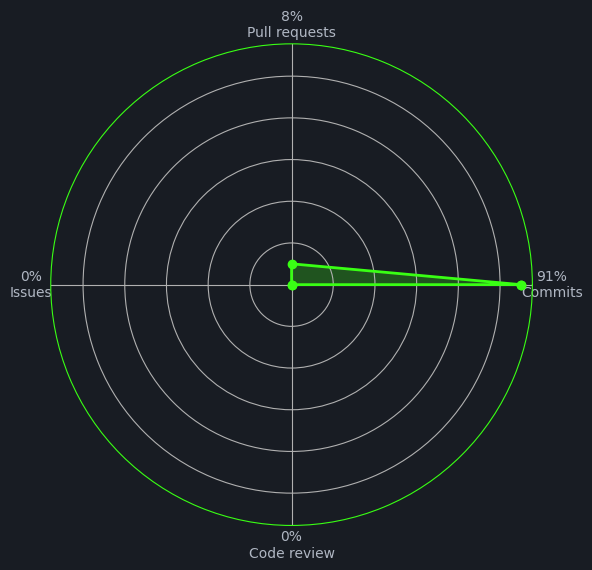
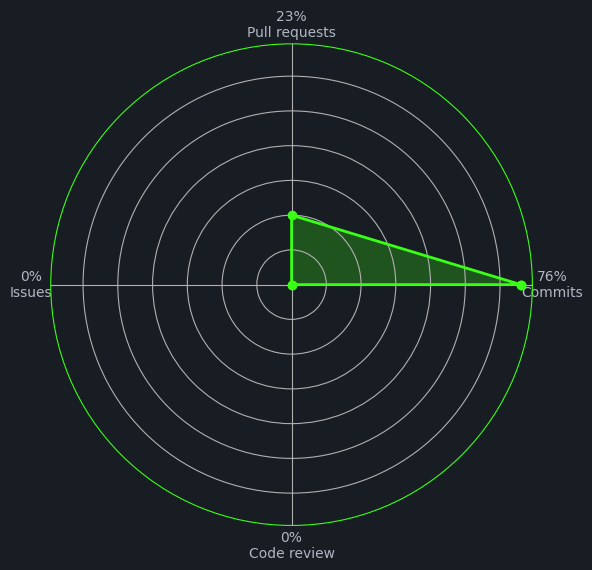
chart generated

diff --git a/generate_radar_chart.py b/generate_radar_chart.py
@@ -1,82 +1,139 @@
 import requests
 import matplotlib.pyplot as plt
 import numpy as np
+import logging
+import sys
+import os
+
+# Set up logging
+logging.basicConfig(
+    level=logging.INFO,
+    format='%(asctime)s - %(levelname)s - %(message)s',
+    handlers=[
+        logging.StreamHandler(sys.stdout)
+    ]
+)
 
 GITHUB_USER = 'vaishcodescape'
+GITHUB_TOKEN = os.getenv('GITHUB_TOKEN')  # Get token from environment variable
 
 # Fetch all public repos
 def get_repos(user):
-    repos = []
-    page = 1
-    while True:
-        url = f'https://api.github.com/users/{user}/repos?per_page=100&page={page}'
-        r = requests.get(url)
-        data = r.json()
-        if not data:
-            break
-        repos.extend([repo['name'] for repo in data])
-        page += 1
-    return repos
+    try:
+        repos = []
+        page = 1
+        headers = {'Authorization': f'token {GITHUB_TOKEN}'} if GITHUB_TOKEN else {}
+        while True:
+            url = f'https://api.github.com/users/{user}/repos?per_page=100&page={page}'
+            r = requests.get(url, headers=headers)
+            r.raise_for_status()  # Raise an exception for bad status codes
+            data = r.json()
+            if not data:
+                break
+            repos.extend([repo['name'] for repo in data])
+            page += 1
+        logging.info(f"Successfully fetched {len(repos)} repositories")
+        return repos
+    except requests.exceptions.RequestException as e:
+        logging.error(f"Error fetching repositories: {e}")
+        raise
 
 # Fetch activity stats
 def get_activity(user, repos):
-    stats = {
-        'Commits': 0,
-        'Pull requests': 0,
-        'Issues': 0,
-        'Code review': 0
-    }
-    headers = {'Accept': 'application/vnd.github.v3+json'}
-    for repo in repos:
-        # Commits
-        commits_url = f'https://api.github.com/repos/{user}/{repo}/commits?author={user}'
-        commits = requests.get(commits_url, headers=headers).json()
-        stats['Commits'] += len(commits) if isinstance(commits, list) else 0
-        # PRs
-        prs_url = f'https://api.github.com/repos/{user}/{repo}/pulls?state=all&per_page=100'
-        prs = requests.get(prs_url, headers=headers).json()
-        stats['Pull requests'] += len([pr for pr in prs if pr.get('user', {}).get('login') == user]) if isinstance(prs, list) else 0
-        # Issues
-        issues_url = f'https://api.github.com/repos/{user}/{repo}/issues?state=all&per_page=100'
-        issues = requests.get(issues_url, headers=headers).json()
-        stats['Issues'] += len([issue for issue in issues if issue.get('user', {}).get('login') == user and 'pull_request' not in issue]) if isinstance(issues, list) else 0
-        # Code reviews (approximated by review comments on PRs)
-        reviews_url = f'https://api.github.com/repos/{user}/{repo}/pulls?state=all&per_page=100'
-        prs_for_reviews = requests.get(reviews_url, headers=headers).json()
-        for pr in prs_for_reviews if isinstance(prs_for_reviews, list) else []:
-            pr_number = pr.get('number')
-            reviews_api = f'https://api.github.com/repos/{user}/{repo}/pulls/{pr_number}/reviews'
-            reviews = requests.get(reviews_api, headers=headers).json()
-            stats['Code review'] += len([review for review in reviews if review.get('user', {}).get('login') == user]) if isinstance(reviews, list) else 0
-    return stats
+    try:
+        stats = {
+            'Commits': 0,
+            'Pull requests': 0,
+            'Issues': 0,
+            'Code review': 0
+        }
+        headers = {
+            'Accept': 'application/vnd.github.v3+json',
+            'Authorization': f'token {GITHUB_TOKEN}'
+        } if GITHUB_TOKEN else {'Accept': 'application/vnd.github.v3+json'}
+        
+        for repo in repos:
+            logging.info(f"Processing repository: {repo}")
+            # Commits
+            commits_url = f'https://api.github.com/repos/{user}/{repo}/commits?author={user}'
+            commits = requests.get(commits_url, headers=headers)
+            commits.raise_for_status()
+            commits_data = commits.json()
+            stats['Commits'] += len(commits_data) if isinstance(commits_data, list) else 0
+            
+            # PRs
+            prs_url = f'https://api.github.com/repos/{user}/{repo}/pulls?state=all&per_page=100'
+            prs = requests.get(prs_url, headers=headers)
+            prs.raise_for_status()
+            prs_data = prs.json()
+            stats['Pull requests'] += len([pr for pr in prs_data if pr.get('user', {}).get('login') == user]) if isinstance(prs_data, list) else 0
+            
+            # Issues
+            issues_url = f'https://api.github.com/repos/{user}/{repo}/issues?state=all&per_page=100'
+            issues = requests.get(issues_url, headers=headers)
+            issues.raise_for_status()
+            issues_data = issues.json()
+            stats['Issues'] += len([issue for issue in issues_data if issue.get('user', {}).get('login') == user and 'pull_request' not in issue]) if isinstance(issues_data, list) else 0
+            
+            # Code reviews
+            reviews_url = f'https://api.github.com/repos/{user}/{repo}/pulls?state=all&per_page=100'
+            prs_for_reviews = requests.get(reviews_url, headers=headers)
+            prs_for_reviews.raise_for_status()
+            prs_for_reviews_data = prs_for_reviews.json()
+            
+            for pr in prs_for_reviews_data if isinstance(prs_for_reviews_data, list) else []:
+                pr_number = pr.get('number')
+                reviews_api = f'https://api.github.com/repos/{user}/{repo}/pulls/{pr_number}/reviews'
+                reviews = requests.get(reviews_api, headers=headers)
+                reviews.raise_for_status()
+                reviews_data = reviews.json()
+                stats['Code review'] += len([review for review in reviews_data if review.get('user', {}).get('login') == user]) if isinstance(reviews_data, list) else 0
+        
+        logging.info(f"Activity stats collected: {stats}")
+        return stats
+    except requests.exceptions.RequestException as e:
+        logging.error(f"Error fetching activity stats: {e}")
+        raise
 
 def plot_radar(stats):
-    labels = list(stats.keys())
-    values = list(stats.values())
-    total = sum(values)
-    if total == 0:
-        values = [1 for _ in values]  # Avoid division by zero
-        total = len(values)
-    percentages = [v / total * 100 for v in values]
-    labels = [f'{int(p)}%\n{l}' for p, l in zip(percentages, labels)]
-    angles = np.linspace(0, 2 * np.pi, len(labels), endpoint=False).tolist()
-    values += values[:1]
-    angles += angles[:1]
-    plt.figure(figsize=(6, 6), facecolor='#181c23')
-    ax = plt.subplot(111, polar=True, facecolor='#181c23')
-    ax.plot(angles, values, 'o-', linewidth=2, color='#39ff14')
-    ax.fill(angles, values, alpha=0.25, color='#39ff14')
-    ax.set_thetagrids(np.degrees(angles[:-1]), labels, color='#b0b7c3')
-    ax.set_yticklabels([])
-    ax.spines['polar'].set_color('#39ff14')
-    plt.tight_layout()
-    plt.savefig('activity.png', bbox_inches='tight', facecolor='#181c23')
-    plt.close()
+    try:
+        labels = list(stats.keys())
+        values = list(stats.values())
+        total = sum(values)
+        if total == 0:
+            values = [1 for _ in values]  # Avoid division by zero
+            total = len(values)
+        percentages = [v / total * 100 for v in values]
+        labels = [f'{int(p)}%\n{l}' for p, l in zip(percentages, labels)]
+        angles = np.linspace(0, 2 * np.pi, len(labels), endpoint=False).tolist()
+        values += values[:1]
+        angles += angles[:1]
+        
+        plt.figure(figsize=(6, 6), facecolor='#181c23')
+        ax = plt.subplot(111, polar=True, facecolor='#181c23')
+        ax.plot(angles, values, 'o-', linewidth=2, color='#39ff14')
+        ax.fill(angles, values, alpha=0.25, color='#39ff14')
+        ax.set_thetagrids(np.degrees(angles[:-1]), labels, color='#b0b7c3')
+        ax.set_yticklabels([])
+        ax.spines['polar'].set_color('#39ff14')
+        plt.tight_layout()
+        plt.savefig('activity.png', bbox_inches='tight', facecolor='#181c23')
+        plt.close()
+        logging.info("Radar chart generated successfully")
+    except Exception as e:
+        logging.error(f"Error generating radar chart: {e}")
+        raise
 
 def main():
-    repos = get_repos(GITHUB_USER)
-    stats = get_activity(GITHUB_USER, repos)
-    plot_radar(stats)
+    try:
+        logging.info("Starting radar chart generation")
+        repos = get_repos(GITHUB_USER)
+        stats = get_activity(GITHUB_USER, repos)
+        plot_radar(stats)
+        logging.info("Radar chart generation completed successfully")
+    except Exception as e:
+        logging.error(f"Failed to generate radar chart: {e}")
+        sys.exit(1)
 
 if __name__ == '__main__':
     main() 

diff --git a/README.md b/README.md
@@ -82,7 +82,8 @@ I'm always open to new projects, collaborations, and ideas. Feel free to reach o
 ## 📈 **GitHub Stats**
 ![Aditya's GitHub Stats](https://github-readme-stats.vercel.app/api?username=vaishcodescape&show_icons=true&count_private=true&theme=radical)
 
----
+## 📊 **Activity Radar**
+![GitHub Activity Radar](activity.png)
 
 ## 📊 **Most Used Languages**
 ![Aditya's Most Used Languages](https://github-readme-stats.vercel.app/api/top-langs/?username=vaishcodescape&layout=compact&theme=radical)
